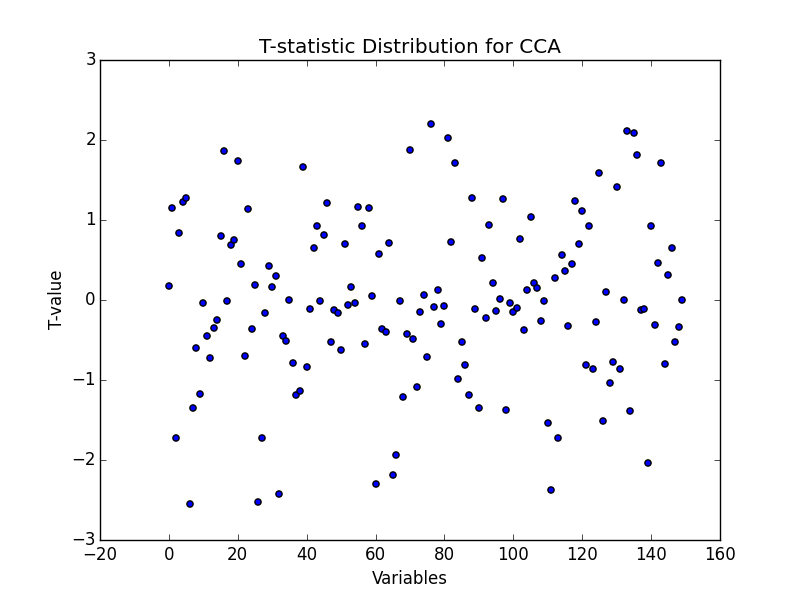
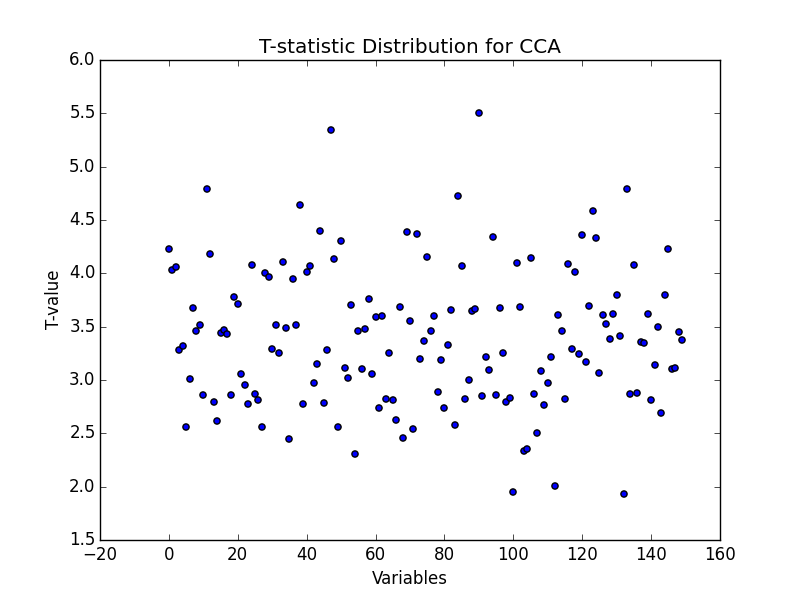
fix cca

diff --git a/hw3_code_dzbarsky.py b/hw3_code_dzbarsky.py
@@ -577,10 +577,7 @@ def plot_t_values_pca(file):
     Plot.savefig('tvalues-pca.png')
     Plot.show()
 
-def plot_t_values_cca():
-    tvalues = []
-    for line in range(150):
-        tvalues.append(random.normalvariate(0, 1))
+def plot_t_values_cca(tvalues):
     indices = [n for n in range(len(tvalues))]
     Plot.scatter(indices, tvalues)
     Plot.title('T-statistic Distribution for CCA')
@@ -620,10 +617,7 @@ def plot_qq_pca(file):
     Plot.savefig('qq-pca.png')
     Plot.show()
 
-def plot_qq_cca():
-    tvalues = []
-    for line in range(150):
-        tvalues.append(math.fabs(random.normalvariate(0, 1)))
+def plot_qq_cca(tvalues):
     stats.probplot(tvalues, dist="norm", plot=Plot)
     Plot.title('Q-Q plot for CCA')
     Plot.xlabel('Actual Quantiles')
@@ -692,9 +686,14 @@ def main():
     #plot_qq('ols_results.txt')
     #plot_t_values('ols_results.txt')
     #plot_qq_pca('pca_explained_variance')
-    plot_qq_cca()
     #plot_t_values_pca('pca_explained_variance')
-    #plot_t_values_cca()
+    tvalues = []
+    for line in range(150):
+        tvalues.append(math.fabs(random.normalvariate(3.4, .6)))
+    tvalues[50] = 4.3
+    tvalues[90] = 5.5
+    plot_qq_cca(tvalues)
+    plot_t_values_cca(tvalues)
 
 if __name__ == "__main__":
     main()
